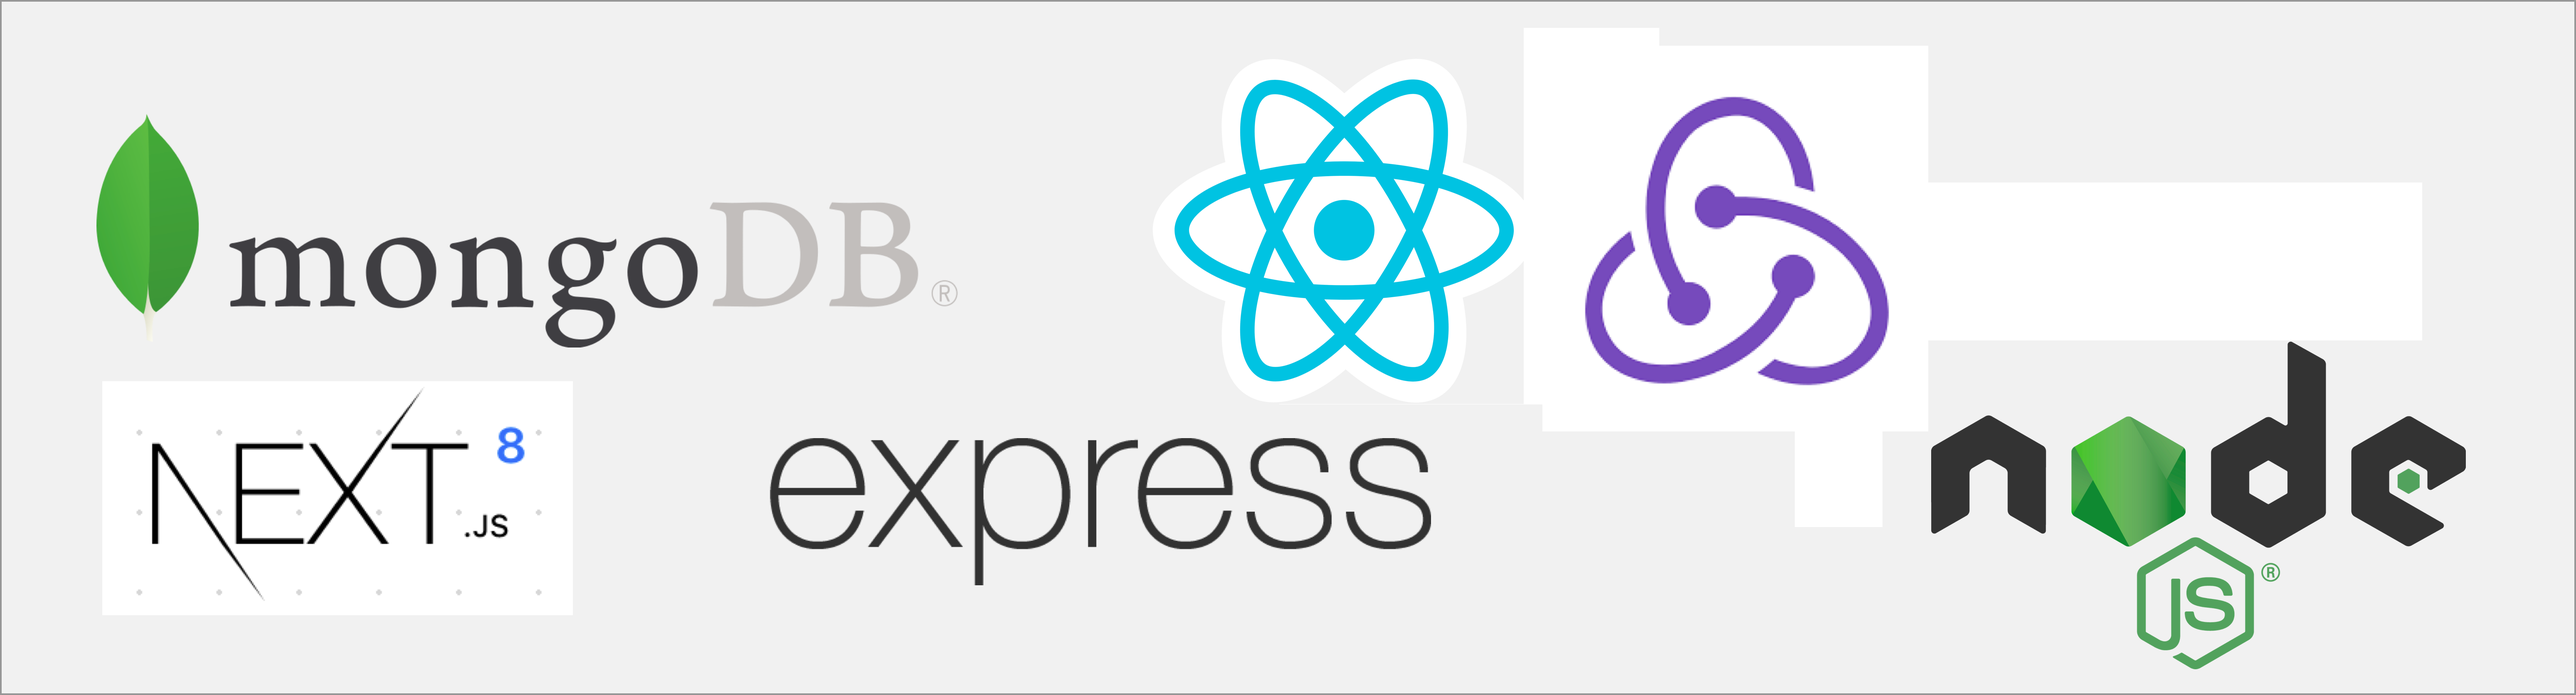
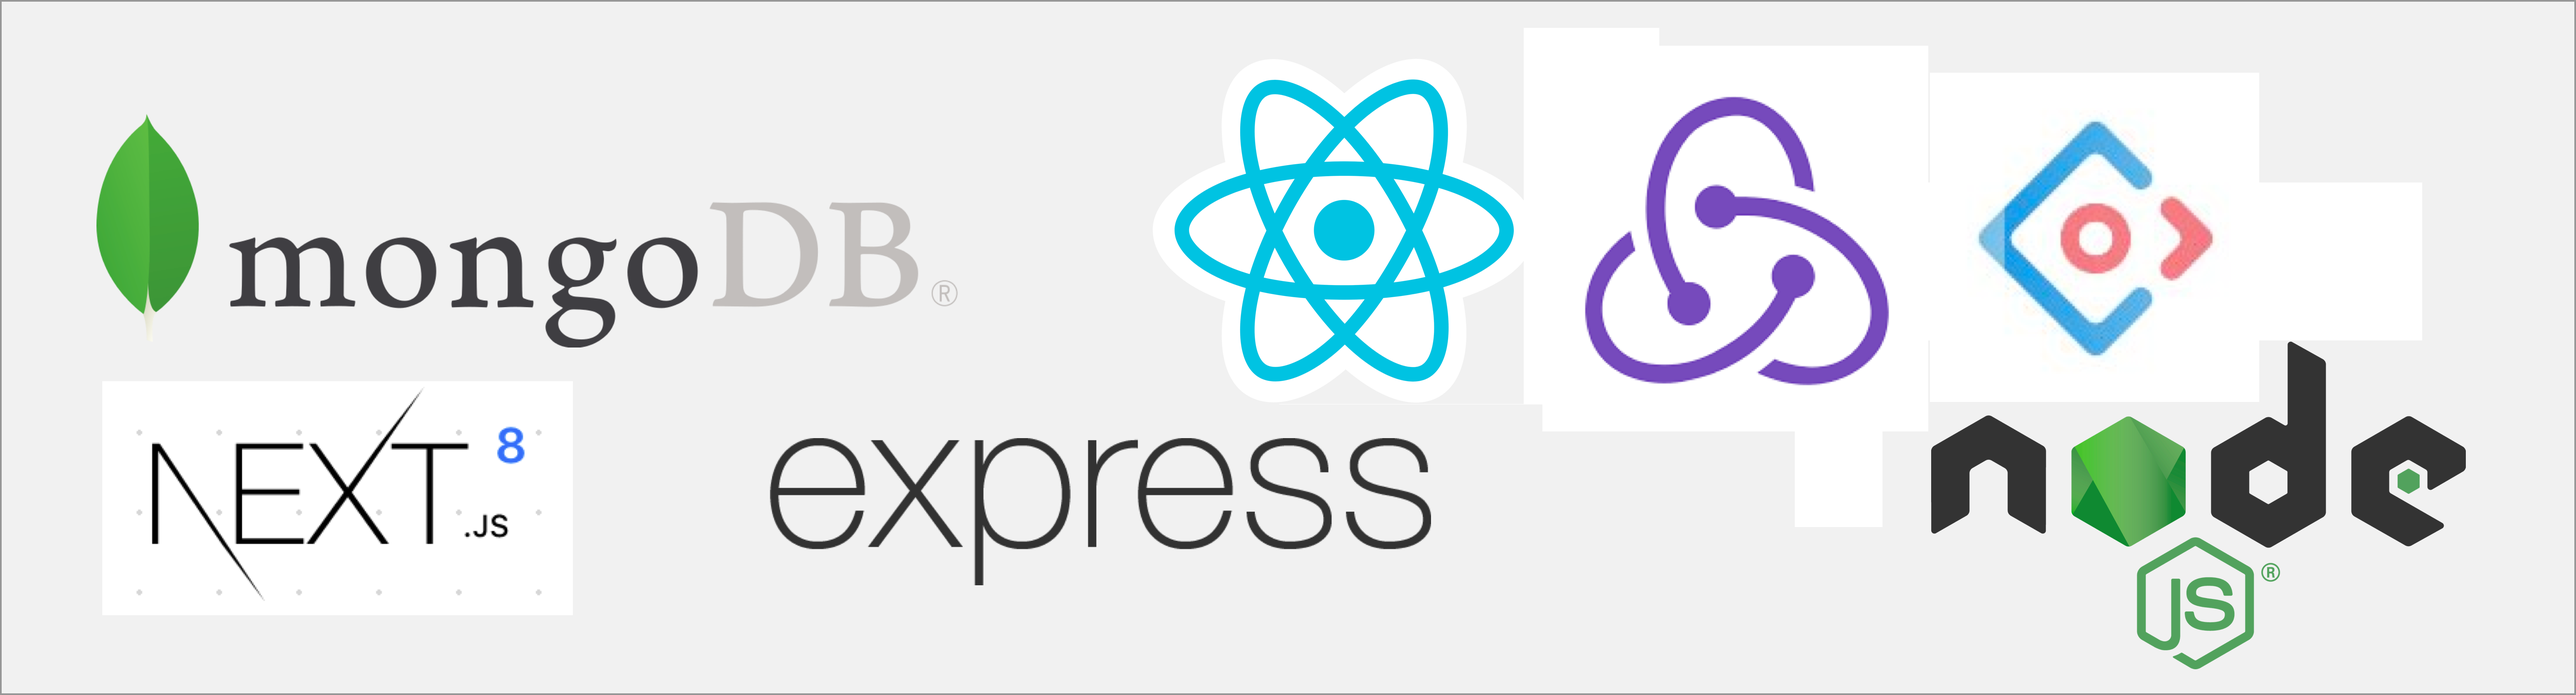
added pages for ant, intl, auth.

Changed region(s): [[0.7476, 0.1866, 0.8722, 0.5287]]

diff --git a/components/test/IntlDemo.js b/components/test/IntlDemo.js
@@ -5,7 +5,9 @@ export default () =>
   <div>
     <h1>Test Internationalisation Formatting</h1>
     <FormattedMessage
-      id='demo.greeting' defaultMessage='Replace in translation with Hello World!'
+      id='demo.greeting'
+      defaultMessage='Replace in translation with Hello World!'
+      description='Use the local equivalent of Hello World.'
     />
   &nbsp;
     <FormattedNumber value={1000} />

diff --git a/server/routes.js b/server/routes.js
@@ -6,7 +6,7 @@ const routes = require('next-routes')
 //   .add('showBlogPostRoute', '/blog/:slug', 'blogShow')
 // Name   Page      Pattern
 module.exports = routes()
-  .add('landing', '/', 'landing')
+  .add('landing', '/', 'Landing')
   .add('about')
   .add('orgs', '/orgs', 'org/OrgListPage')
   .add('org', '/orgs/:id', 'org/OrgDetailPage')

diff --git a/components/test/Hello.js b/components/test/Hello.js
@@ -1,2 +1,6 @@
 // React Components can be very very terse
-export default (props) => <p className='greeting' >Hello, *Your name here*!</p>
+export const Greet = () => <p className='greeting' >Hello, *Your name here*!</p>
+
+export const Hello = ({ name }) => <p className='greeting' >Hello, {name}</p>
+
+export default Greet

diff --git a/pages/Landing/index.js b/pages/Landing/index.js
@@ -1,3 +1,3 @@
-import Landing from './Landing'
+import Landing from './Landing.js'
 
 export default Landing

diff --git a/docs/slideshows/developer_overview.md b/docs/slideshows/developer_overview.md
@@ -241,10 +241,10 @@ You can do all the above from the GUI.
 
 ---
 
-# MERRNN?
+# MERN, MERRANIN RAMINNER?
 
-Voluntari.ly is based MongoDB, Express, React+Redux, Node, Next software stack
-![MERRNN](./img/mern.png)
+Voluntari.ly uses MongoDB, Node, Express, React, Redux, Next, Intl and AntD
+![MERRANN](./img/mern.png)
 
 Yes it is Javascript all the way down.
 ---
@@ -315,7 +315,7 @@ https://www.mongodb.com/
 
 ----
 # Mongo DB
-MongoDB is a document-oriented database program. 
+MongoDB is a document-oriented database program. Free and open source
 
 Instead of SQL with relational rows and tables MongoDB stores JSON-like documents and provides ways to retrieve those documents based on the internal fields.
 
@@ -323,11 +323,135 @@ Instead of SQL with relational rows and tables MongoDB stores JSON-like document
       "title": "Self driving model cars ",
       "subtitle": "using algorithmns to follow lines and avoid obstacles",
       "imgUrl": "http://www.plaz-tech.com/wp-content/plugins/wp-easycart-data/products/pics1/Arduino%20Car%202_8ab5dd38f1e3f6f05ad244f1e5e74529.jpg",
-      "description": "# NZTA Innovation Centre\n \n We have 6 model cars with sensors for vision, proximity etc, \n controlled by Arduinos teach them to solve \n 4 challenges - move, follow a line, avoid obstacles, \n get to a destination etc. \n \n ## We need:\n * Open space with room for the test tracks - e.g a school hall\n * teams of 5 students\n * on adult helper per team, should be able to follow instructions and understand a little C++\n \n ## Learning outcomes:\n * programming a remote device\n * simple coding\n * algorithmic thinking\n * problem solving.\n \n",
+      "description": "# NZTA Innovation Centre\n \n We have 6 model cars with sensors for vision..."
       "duration": "4 hours",
       "location": "NZTA Innovation Centre, 5 Cook St Auckland",
       "status": "draft"
     }
+
+----
+# Mongo in Dev & Test
+For Dev we use a local database 
+
+    mongod
+
+or you can use a docker container
+
+    docker run --name db -d -v /data/db -p:27017:27017 mongo:latest
+
+and set the connect string in the environment
+
+    MONGO_URL: mongodb://db:27017/vly-dev
+
+----
+# Mongo in UAT & Prod
+For Production and UAT we use a cloud hosted database: 
+
+MongoDB Atlas. https://docs.atlas.mongodb.com/
+
+and need this connect string:
+
+    MONGO_URL: mongodb+srv://vly-client:ZhF3BUDiwpy8C3xK@cluster0-kwmsu.mongodb.net/vly-test?retryWrites=true
+----
+
+# Mongoose
+The node Mongoose library gives us an easy way to make calls to the database.
+
+We can define the document schema 
+
+    const mongoose = require('mongoose')
+    const Schema = mongoose.Schema
+
+    const organisationSchema = new Schema({
+    name: { type: 'String', required: true },
+    slug: { type: 'String', required: true },
+    about: { type: 'String', required: true },
+
+----
+# Mongoose
+
+Create a document of that type:
+
+    const oppo = new Opportunity({
+        title: 'The first 200 metres',
+        subtitle: 'Launching into space step 2',
+        imgUrl: 'https://image.flaticon.com/icons/svg/206/206857.svg',
+        description: 'Project to build a simple rocket that will reach 200m',
+    });
+
+----
+
+And save it to the database
+
+    oppo.save();
+
+---
+![React](./img/reactreact.png)
+
+A JavaScript library for building user interfaces
+https://reactjs.org/
+
+----
+# Declarative
+
+Create components that look and work like HTML but can handle code and data.
+
+    const Hello = ({ name }) => <p className='greeting' >Hello, {name}</p>
+    export default Hello
+
+Usage:
+
+    <h1><Hello name='Andrew' /></h1>
+
+----
+# Components
+
+Application is built from...
+
+dumb components that just render data:
+
+    <OpCard op={op} />
+
+----
+# Components
+and smarter components or pages that obtain data and handle interactions
+
+    class Ops extends Component {
+      static async getInitialProps ({ store, query }) {
+        // Get all Opportunities
+        const ops = await store.dispatch(reduxApi.actions.opportunities.get())
+        return { ops, query }
+      }
+    
+      render () {
+        return (<OpList ops={this.props.ops} />)
+      }
+    }
+    
+---
+
+![Redux](./img/reduxredux.png)
+
+A predictable state container for JavaScript apps.
+
+https://redux.js.org/
+
+----
+# Predictable
+
+Redux helps us write applications that behave consistently, run in different environments (client, server, and native), and are easy to test.
+----
+# Centralized
+
+Centralizing the application's state and logic enables powerful capabilities like undo/redo, state persistence, and much more.
+
+There is one place where all the information is held and we can access it from any component. 
+
+----
+# Debuggable
+
+The Redux DevTools make it easy to trace when, where, why, and how our application's state changed. Redux's architecture lets you log changes, use "time-travel debugging", and even send complete error reports to a server.
+![DevTools](./img/reduxdevtools.png)
 
 ---
 
@@ -335,17 +459,104 @@ Instead of SQL with relational rows and tables MongoDB stores JSON-like document
 
 https://nextjs.org/
 
+----
+# Next
+
+The Next JS Framework helps us put it all together.
+
+It is a React Framework that provides us with
+
+* Server Side Rendering SSR
+* Static exports
+* CSS in JS
+* minimal config
+* Production friendly builds
+* Use all the latest Javascript code styles
+
 ---
+# Ant Design (React)
 
-![React](./img/react.png)
+![Ant Design](./img/antd.png)
 
-https://reactjs.org/
+https://ant.design/
+
+----
+# A set of design values
+
+![Ant Design Nature](./img/antdnature.png)
+https://ant.design/docs/spec/values
+
+----
+# A set of components
+Ant Design of React https://ant.design/components/
+
+![Ant Design of React](./img/antdbutton.png)
+
+----
+# A set of components
+
+    import { Button } from 'antd';
+
+    const Buttons = () => {
+        <div>
+            <Button type="primary">Primary</Button>
+            <Button>Default</Button>
+            <Button type="dashed">Dashed</Button>
+            <Button type="danger">Danger</Button>
+        </div>
+    }
+---
+# Internationalisation
+
+## Voluntari.ly is multilingual
+![NZ EN language flag](./img/nzenflag.jpg)
+![NZ Mi language flag](./img/nzmiflag.jpg)
+
+[Background](https://voluntarily.atlassian.net/wiki/spaces/VP/pages/4423681/Voluntari.ly+is+Multilingual)
+
+----
+# Use react-intl library
+
+https://github.com/yahoo/react-intl
+
+This library provides React components and an API to format dates, numbers, and strings, including pluralization and handling translations. 
+
+He tika i te timatanga  | it is right from the start
+----
+# Example - IntlDemo.js
+    import { FormattedMessage, FormattedNumber } from 'react-intl'
+    export default () =>
+    <div>
+        <h1>Test Internationalisation Formatting</h1>
+        <FormattedMessage
+            id='demo.greeting'
+            defaultMessage='Hello World!'
+            description='Use the local equivalent of Hello World.'
+        />
+    &nbsp;
+        <FormattedNumber value={1000} />
+    </div>
+----
+# Rules for Intl
+* All strings that appear on the screen should be translatable. - use the FormattedMessage wrapper.
+
+* Numbers, plurals, dates and times should also use their respective wrappers. 
+
+* The messages are collected automatically and the en.json file is generated. This will be profesionally translated ( Do not rely on Google)
 
 ---
+# Identity and Access Management
+![Auth0](./img/auth0.jpg)
 
-![Redux](./img/reduxredux.png)
+https://auth0.com/
 
+----
+# Cloud service for identity
 
-https://redux.js.org/
-
-Predictable state container for JavaScript apps 
+Get somone else to do the work for:
+* registration, 
+* email validation, 
+* sign in/out, 
+* password reset,
+* social logins (Google, LinkedIn)
+* OAuth, SAML, AD etc. 
